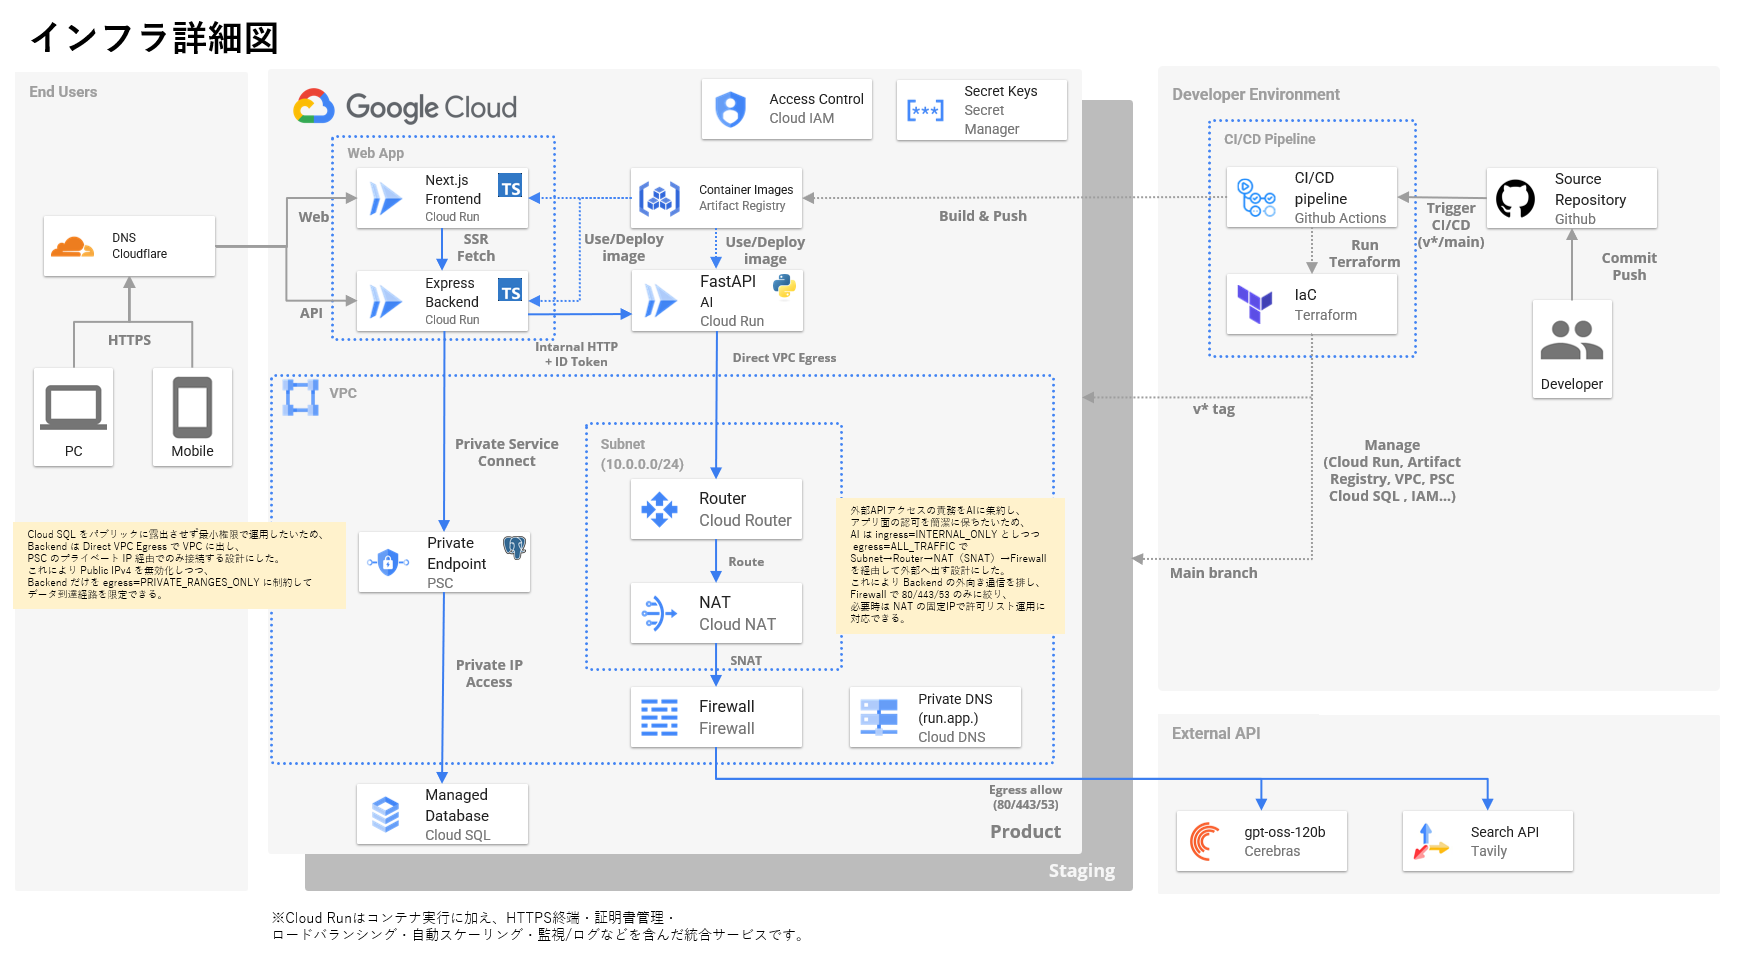
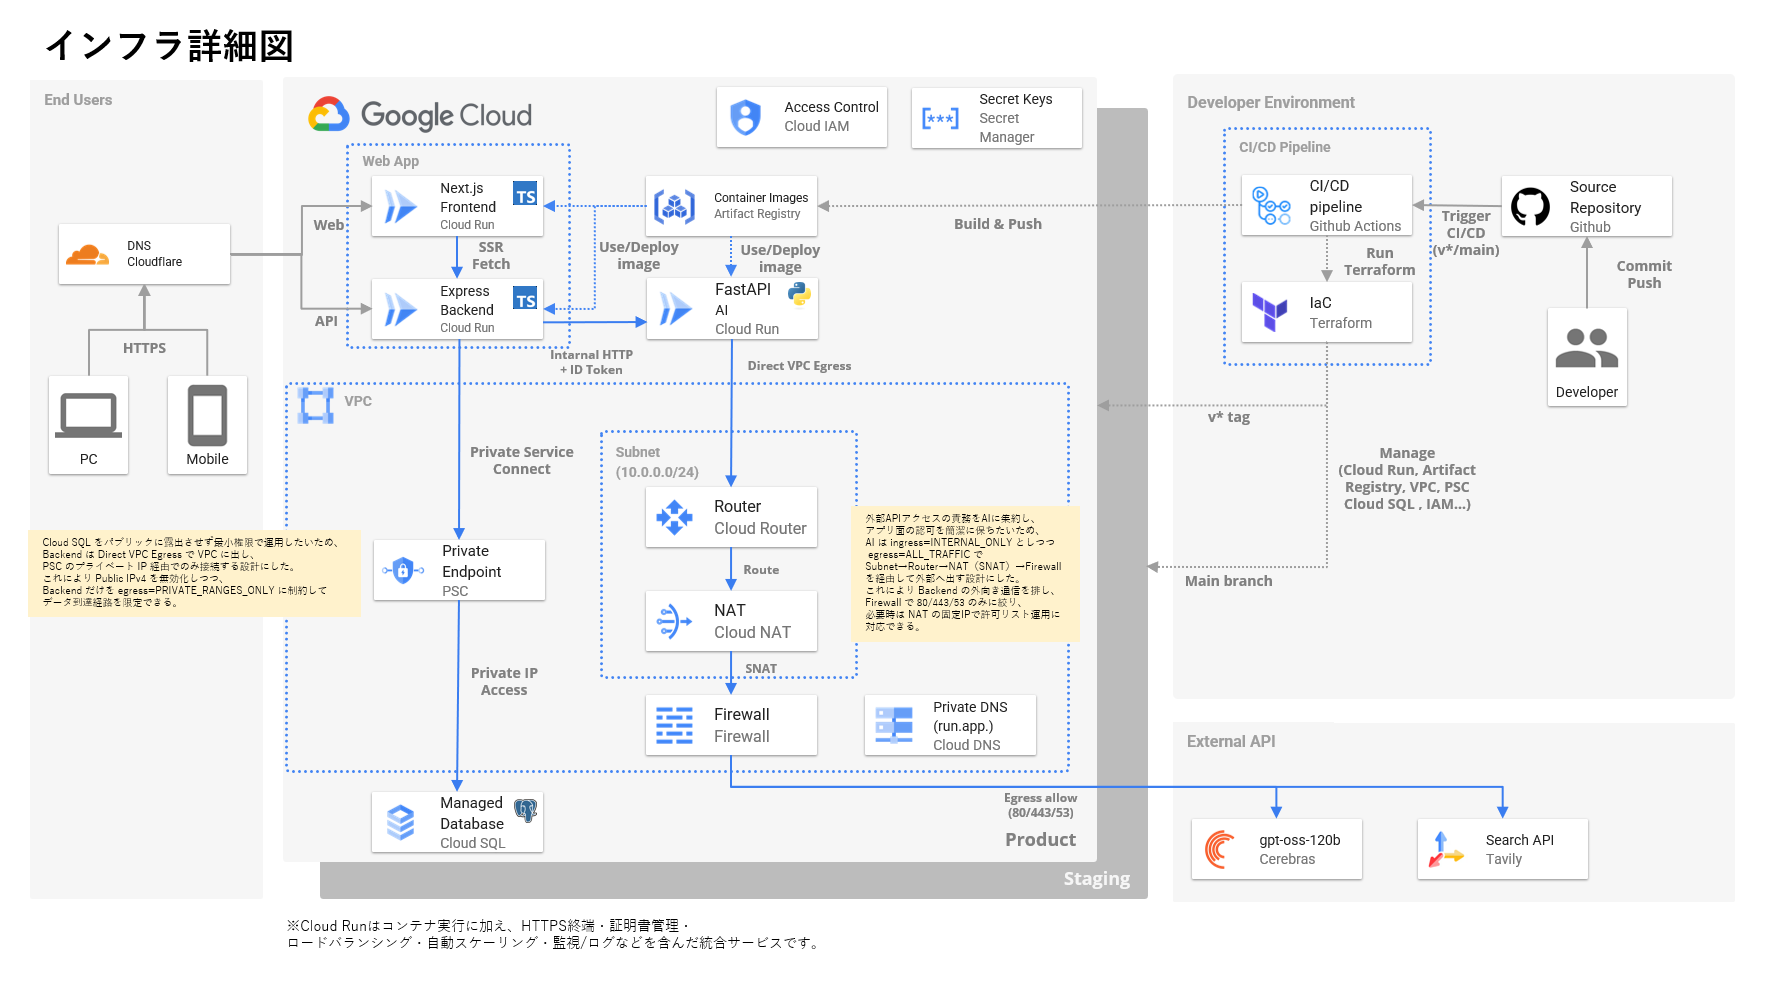
docs: PRメッセージから「トリアージルール」を削除など (#140)
* docs: PRでのトリアージ関連のルールを削除

* fix(frontend): favicon.svgを返すことで favicon.icoが500エラーになる問題を修正

* fix(docs): インフラ詳細図が間違ってたので修正

diff --git a/frontend/src/app/layout.tsx b/frontend/src/app/layout.tsx
@@ -33,7 +33,6 @@ export const metadata: Metadata = {
   icons: {
     icon: [
       { url: "/favicon.svg", type: "image/svg+xml" },
-      { url: "/favicon.ico", sizes: "any" },
     ],
     apple: [{ url: "/apple-touch-icon.png" }],
     other: [

diff --git a/PROJECT_GUIDELINES.md b/PROJECT_GUIDELINES.md
@@ -112,20 +112,21 @@
 
 **目的**: 未対応コメントの停滞を防ぎ、PR本文へ軽量に集約する。
 
-- **分類**: コメント先頭に `[Must]`（必須）/`[Nice]`（任意）/`[Q]`（質問）
 - **Resolve原則**: 実装者が対応後に自分で Resolve。必要あればレビュワーが Unresolve
-- **PR本文へ集約**: Issue化しない小さな残件はPR本文の専用セクションに要約
+- **PR本文へ集約**: Issue化しない小さな残件はPR本文の専用セクションに要約（任意）
 - **Issue化の基準**: 複数PR横断・期限/担当が必要・影響が広い場合のみIssue化
-- **再レビュー依頼**: Must のみ再確認依頼。差分リンクを添付
 
-### PR本文（追記用セクション）
+### PR本文（任意・追記用セクション）
+
+必要に応じて、以下のセクションをPR本文に追記できます。
+
 ```
 ## コメント整理
-- Must（マージ前に対応）:
+- 対応が必要な項目:
   - #<comment-link or short-note>
-- Nice（任意、後回し可）:
+- 任意・後回し可の項目:
   - ...
-- Q（結論メモ）:
+- 質問・結論メモ:
   - 論点: … / 結論: … / 根拠: …
 
 ## 残件・対応しない・未着手（Issue化しない軽量メモ）
@@ -136,41 +137,21 @@
 
 ---
 
-## CodeRabbit 運用（設定/使い方/Closed PR）
+## CodeRabbit 運用
 
 ### 設定の要点
-- 設定: `/.coderabbit.yaml`（日本語レビュー、軽量トリアージの促しを有効化）
+- 設定: `/.coderabbit.yaml`（日本語レビューを有効化）
 - 自動レビュー: PR作成/Push時に自動、Draftは既定で無効
-- 事前チェック: PR本文に「コメント整理」「残件メモ」セクションの有無を警告
 
 ### レビュー時の使い方
-1. コメントに `[Must] / [Nice] / [Q]` を接頭辞で付ける
-2. CodeRabbit のサマリに従い、PR本文の該当セクションを更新
-3. 再レビュー依頼は Must のみ、差分リンクを添付
-
-### Closed PR の扱い
-- 原則は手動で「トリアージメモ（最終）」をコメントに追記して完了
-- 要約支援が必要な場合のみ、一時的に Reopen → 総括作成 → 反映 → Close（承認の無効化に注意）
-
-#### トリアージメモ（最終）雛形
-```
-### トリアージメモ（最終）
-- Must（別対応が必要）:
-  - …
-- Nice（次回リファクタ候補）:
-  - …
-- Q（結論）:
-  - 論点: … / 結論: …（根拠: …）
-- 後続: Issue化したもの → #123, #124
-```
+- CodeRabbit のレビューコメントを確認し、必要に応じて対応
+- 再レビュー依頼時は差分リンクを添付
 
 ### Merge時のラベル運用（残件の可視化）
 - 目的: マージ後に残った事項の可視性を高める
 - 付与タイミング: マージ直前 or マージ後すぐ（実装者またはレビュワー）
 - ラベル定義:
   - `has-remaining-items`（残件あり）
-  - `must-follow-up`（Must項目が残っている／優先度高）
-  - `nice-to-have`（Nice項目のみ残っている）
 - 使い方: `is:pr is:merged label:has-remaining-items` で抽出
 - 備考: 後続Issueを起票した場合でも、PR側のラベルは情報ハブとして維持
 

diff --git a/.github/pull_request_template.md b/.github/pull_request_template.md
@@ -30,15 +30,17 @@ Close #
 
 ---
 
-## コメント整理
-- Must（マージ前に対応）:
+## コメント整理（任意）
+<!-- 必要に応じて、レビューコメントの整理を行ってください -->
+- 対応が必要な項目:
   - #<comment-link or short-note>
-- Nice（任意、後回し可）:
+- 任意・後回し可の項目:
   - ...
-- Q（結論メモ）:
+- 質問・結論メモ:
   - 論点: … / 結論: … / 根拠: …
 
-## 残件・対応しない・未着手（Issue化しない軽量メモ）
+## 残件・対応しない・未着手（任意・Issue化しない軽量メモ）
+<!-- 必要に応じて、残件情報を記載してください -->
 - 残件（追従予定・期限/担当任意）: …
 - 対応しない（理由を1行）: …
 - 未着手（次PRに回す）: …
